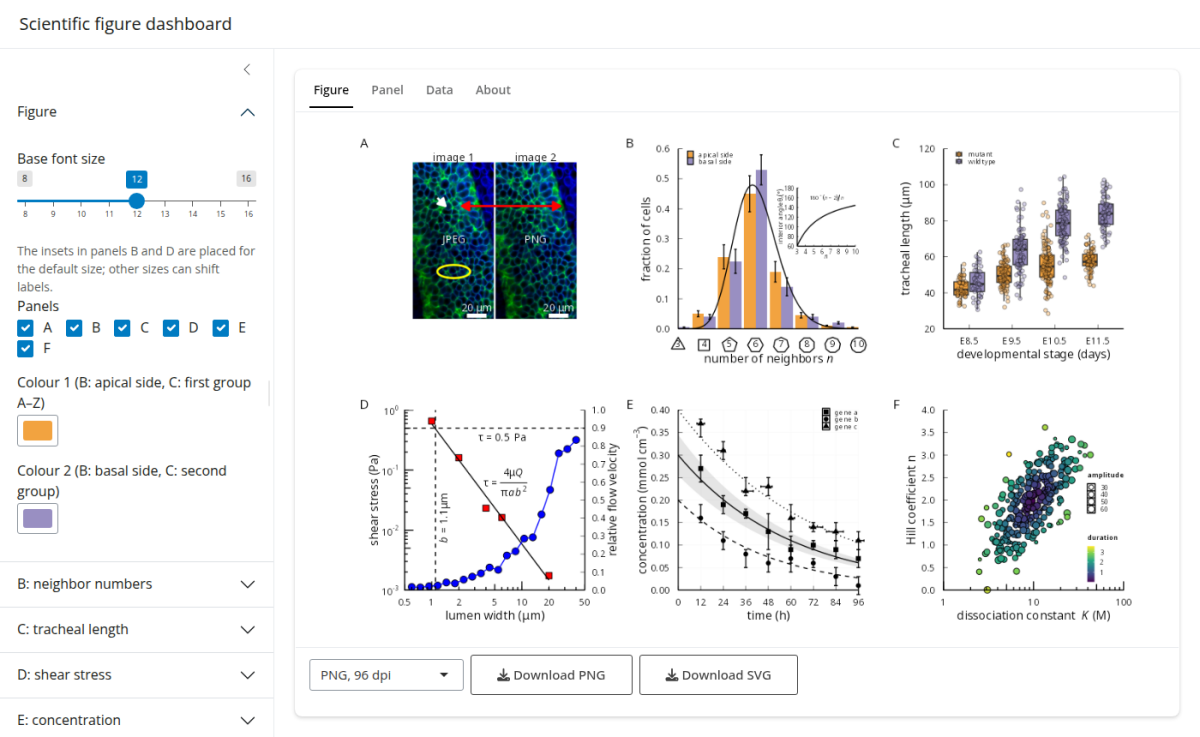
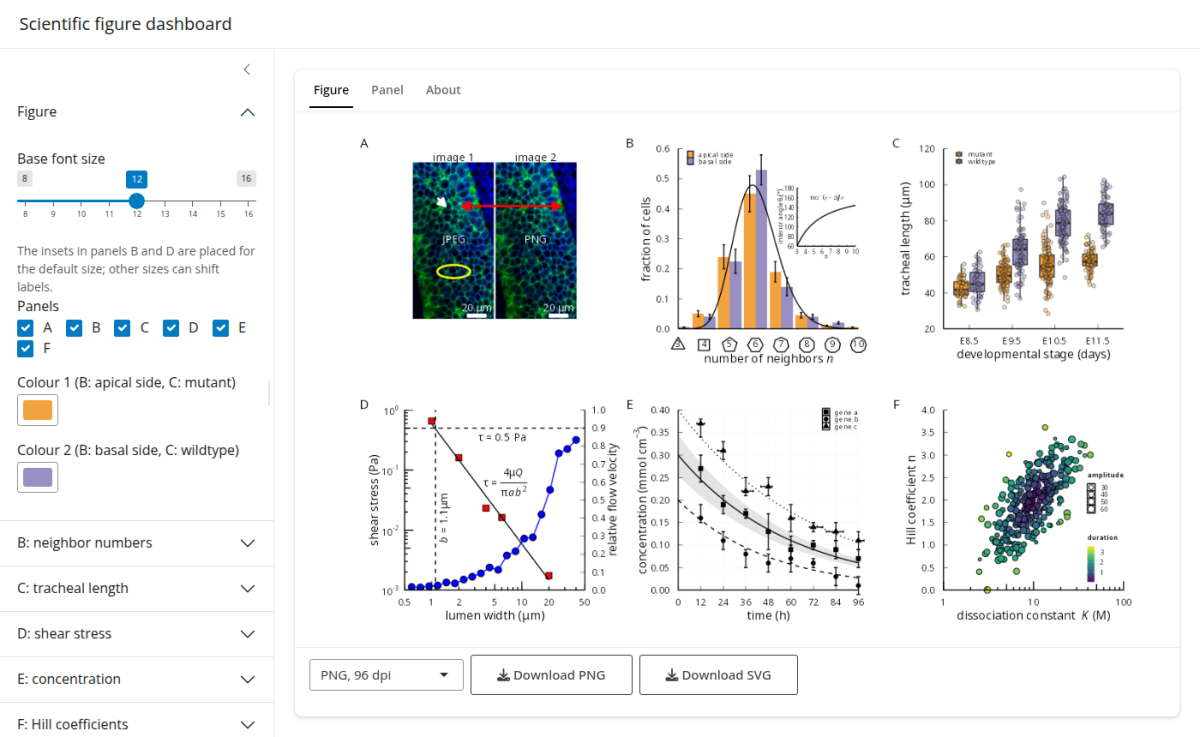
Drop the mention of uploaded data; screenshot without the Data tab
The dashboard won't accept uploaded data, so the README no longer
mentions it, and the screenshot is retaken from this branch's app.

diff --git a/README.md b/README.md
@@ -30,7 +30,7 @@ install.packages(c("shiny", "bslib", "ragg"))
 shiny::runApp("app")
 ```
 
-The app is also online at **https://meer.solutions/scifig_plot_examples_R/**, built with [Shinylive](https://posit-dev.github.io/r-shinylive/) and published by a GitHub Actions workflow on every push to `main`. It runs R in your browser (WebAssembly), so nothing needs to be installed and uploaded data stay on your computer. The first visit downloads about 120 MB; after that, the browser cache makes it faster.
+The app is also online at **https://meer.solutions/scifig_plot_examples_R/**, built with [Shinylive](https://posit-dev.github.io/r-shinylive/) and published by a GitHub Actions workflow on every push to `main`. It runs R in your browser (WebAssembly), so nothing needs to be installed. The first visit downloads about 115 MB; after that, the browser cache makes it faster.
 
 ![dashboard](dashboard.png)
 
